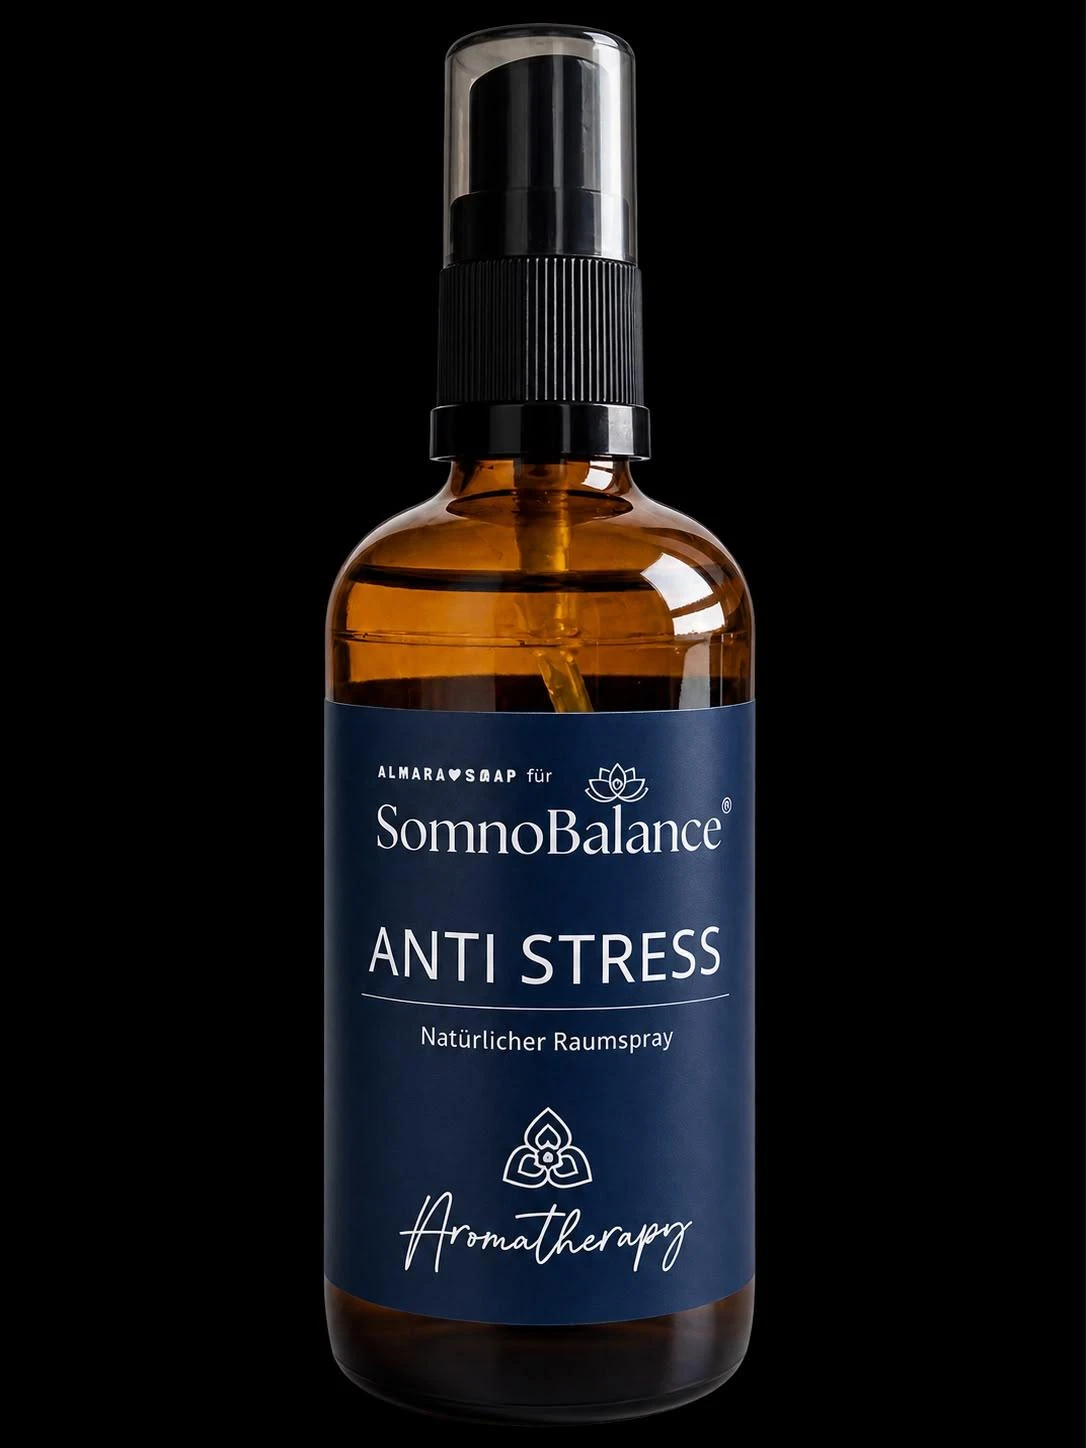
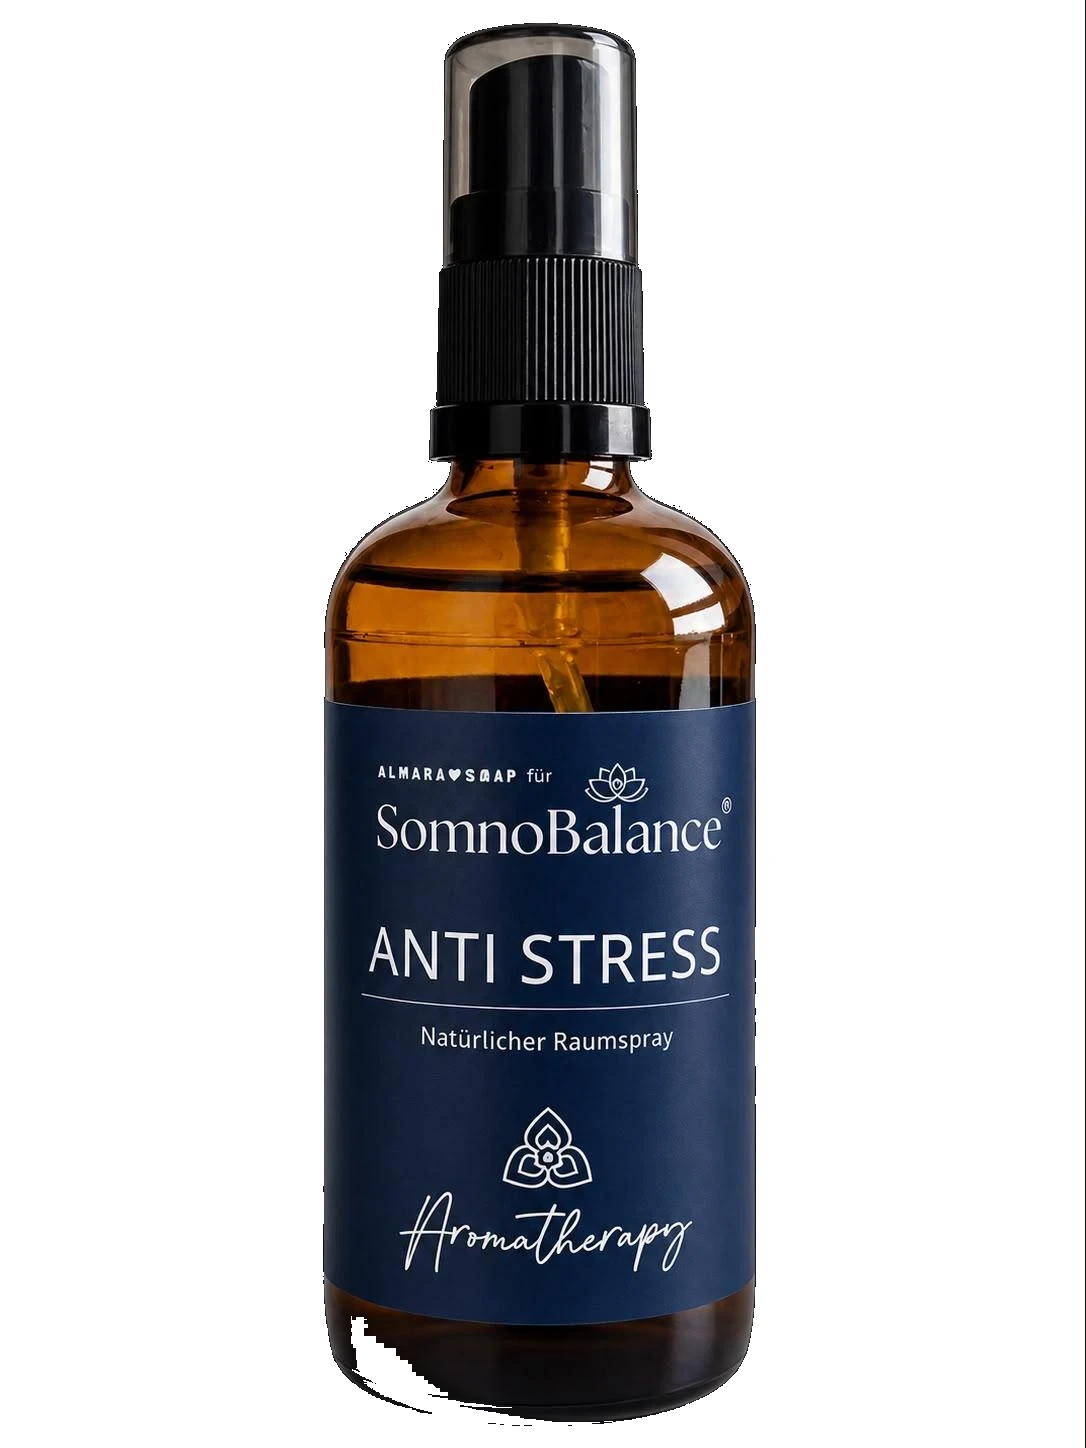
Square corners site-wide, white backgrounds for ritual bottle photos
Square corners: added a global CSS override (after the Tailwind import,
so it wins in the cascade without needing !important) that zeroes out
border-radius on every rounded-* utility class — buttons, photo
containers, and cards all become sharp-cornered for one consistent
look, without hand-editing the ~50 files that use rounded-*.

White backgrounds: the client's roll-on/oil-blend/room-spray photos
were shot on pure black, which read as a jarring dark box against the
rest of the site's white/cream pages. Removed the black background
with a flood-fill from the image edges (rather than a naive global
luminance threshold, which was tried first and badly ate into the
bottles' own dark caps and navy labels since they're similarly dark —
flood-fill only clears pixels actually connected to the background
region, leaving the product's own dark areas untouched) and flattened
onto solid white.

diff --git a/src/app/globals.css b/src/app/globals.css
@@ -201,3 +201,21 @@ html[data-preloader="skip"] .site-preloader {
   transform-origin: center;
   animation: lotus-pop 0.35s ease-out var(--d, 0s) forwards;
 }
+
+/* Site-wide square-corner design pass: every button, photo container, and
+   card uses sharp 0-radius corners instead of Tailwind's rounded-* scale,
+   for one consistent look across the whole site. Overriding the utility
+   classes centrally here (rather than editing each of the ~50 files that
+   use rounded-*) means new components stay square automatically without
+   needing to remember to omit rounded-* by hand. */
+.rounded-full,
+.rounded-xs,
+.rounded-sm,
+.rounded-md,
+.rounded-lg,
+.rounded-xl,
+.rounded-2xl,
+.rounded-3xl,
+.rounded {
+  border-radius: 0;
+}
